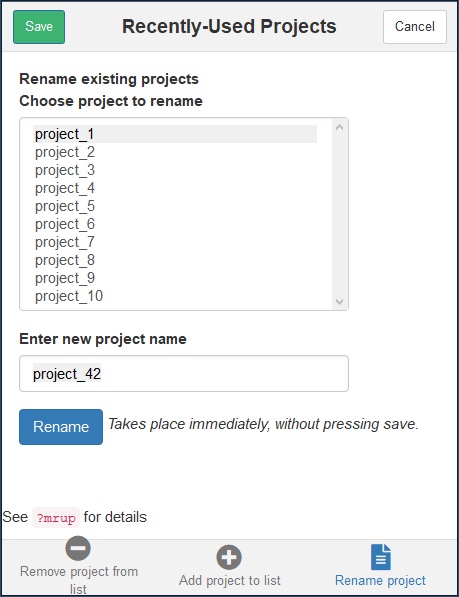
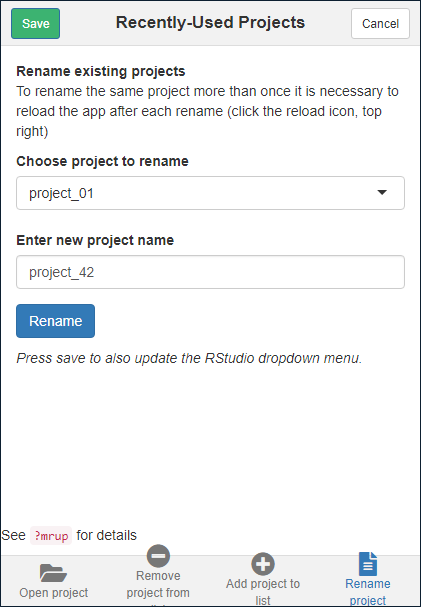
Catches refctor up

diff --git a/README.md b/README.md
@@ -1,21 +1,19 @@
-Addin ~ MRUP
+Addin \~ MRUP
 ================
 
 <!-- EDIT IN README.RMD -->
 
-## An RStudio addin for manipluting the “Most Recently Used Projects” list
+## An RStudio addin for manipulating the “Most Recently Used Projects” list
 
-The addin allows projects to be added to, or removed from, the recent
-project drop-down menu. The addin also makes it possible to rename
-existing projects without navigating file system manually.
+Easily open any previous project.  
+Add projects to, or remove projects from, the recent project drop-down
+menu.  
+Easily rename existing projects without navigating the file system
+manually.
 
 The RStudio menu shows a list of the 10 most recently used projects.
 This is based on the project\_mru file which may contain more than 10
 projects (apparently 15 max?).
-
-**NB:** Only projects saved in subdirectories of the `~/R` directory are
-found. If you prefer to save projects all over your hard disc, this will
-currently not find those projects located elsewhere.
 
 ### Install
 
@@ -33,7 +31,29 @@ Then locate the `mrup` section and click on the description text below
 
 ![](images/mrup_menu.PNG)
 
-### Remove tab
+-----
+
+#### Open tab
+
+In the open tab it is possible to open any RStudio project even if it is
+not on the recently used list.
+
+The directory structure of your computer can be searched and all
+projects located within the chosen directory are displayed. The default
+search location is `~/R`, but this can be changed by clicking the
+`Change` link. It may take several seconds to complete the search, with
+the time increasing the closer you get to the root directory of a hard
+disk. Once completed, a
+
+The chosen project can then be opened in either the current or a new
+session. The chosen directory is also used for the **Add projects** and
+**Rename project** tab.
+
+![](images/open_projects.PNG)
+
+-----
+
+#### Remove tab
 
 The remove tab lists the contents of the current project\_mru file, in
 its entirety. The means it is possible to see which projects were
@@ -50,13 +70,14 @@ app.
 
 ![](images/remove_projects.PNG)
 
-### Add tab
+#### Add tab
 
-All subdirectories of the `~/R` directory are searched for`.Rproj`
-files, and will likely take a few seconds to complete. Once done, a list
-is generated that indicates how long it has been since each project was
-modified. Selected projects are shown in a table that also shows the
-full path to the project.
+Adding new projects to the recently used list requires searching all
+subdirectories for `.Rproj` files. The search directory (i.e the circled
+input) is now chosen ion the **Open project** tab. A list of all
+detected projects is displayed that indicates how long it has been since
+each project was modified. Selected projects are shown in a table that
+also shows the full path to the project.
 
 Pressing the
 <code style='background-color:#337ab7; color:white'>Add</code> button
@@ -70,20 +91,23 @@ app.
 
 ![](images/add_projects.PNG)
 
-### Rename tab
+-----
 
-Because searching for all files takes some time, only projects already
-on the list can be renamed. Using the refresh button allows the list to
-be updated without restarting the add-in. When renaming, select one
-project and enter the new name in the box, without a file extension. As
-long as the project directory has the same name as the project itself,
-both shall be renamed, and the `.Rproj` extension will remain.
+#### Rename tab
+
+Any project can be renamed as long as it is located within the directory
+chosen in the **Open project** tab. After renaming, pressing the refresh
+button allows the list to be updated without restarting the add-in. When
+renaming, select one project and enter the new name in the box, without
+a file extension. As long as the project directory has the same name as
+the project itself, both shall be renamed, and the `.Rproj` extension
+will remain.
 
 The name change is implemented immediately on pressing
 <code style='background-color:#337ab7; color:white'>Rename</code>, with
 no need to press
 <code style='background-color:#3cb371; color:white'>Save changes</code>,
 and without the ability to cancel. To undo a rename, the project can be
-re-renamed straight away.
+re-renamed straight away, after refreshing the app.
 
 ![](images/rename_projects.PNG)
